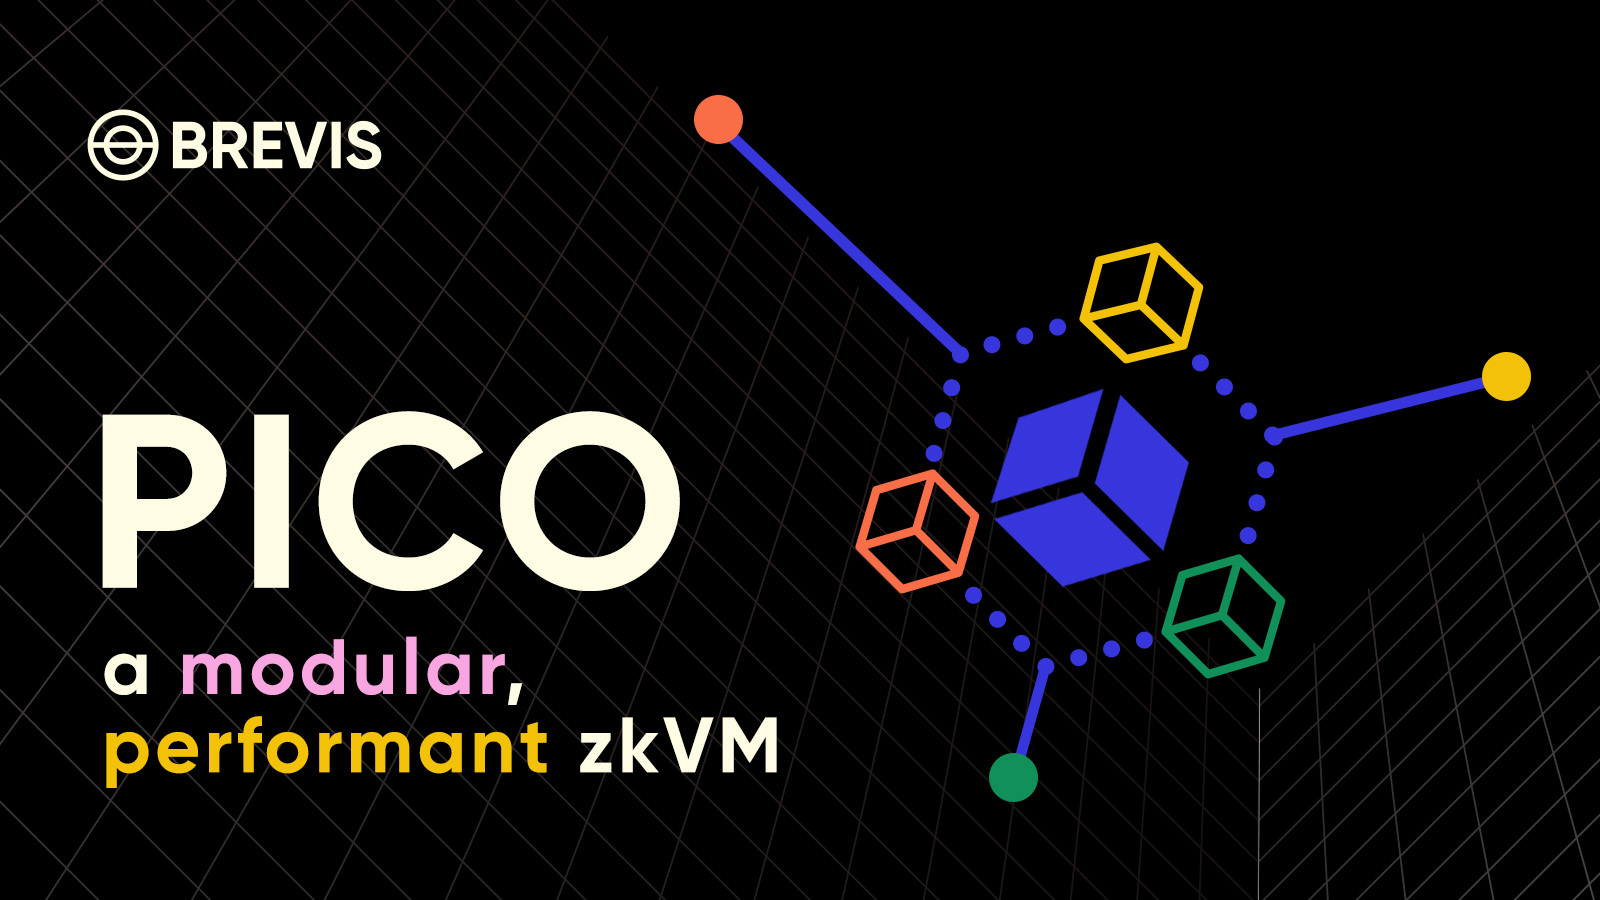
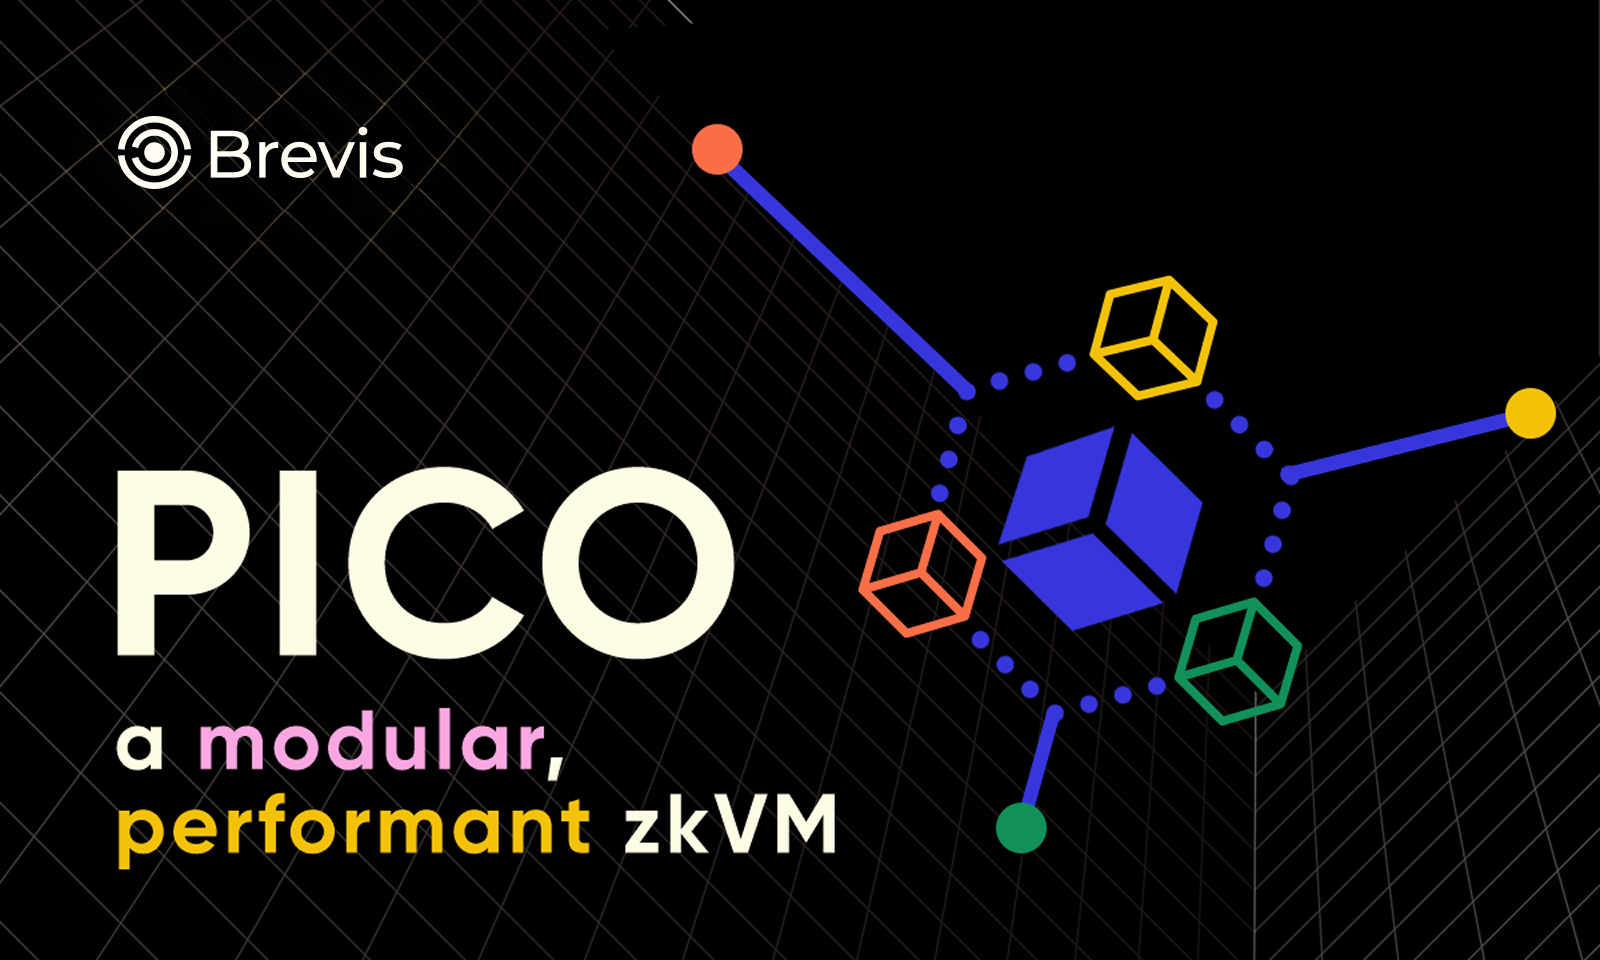
GITBOOK-40: No subject

diff --git a/README.md b/README.md
@@ -4,7 +4,7 @@ description: A modular, performant zkVM
 
 # Introducing Pico
 
-<figure><img src=".gitbook/assets/Frame - 1.png" alt=""><figcaption></figcaption></figure>
+<figure><img src=".gitbook/assets/pico.png" alt=""><figcaption></figcaption></figure>
 
 Welcome to Pico—the open-source zero-knowledge virtual machine (zkVM) that transforms how developers build secure, scalable, and high-performance decentralized applications. Drawing on the innovative ["glue-and-coprocessor"](https://vitalik.eth.limo/general/2024/09/02/gluecp.html) architecture, Pico fuses the efficiency of specialized circuits with the adaptability of a general-purpose zkVM. This unique design empowers you to craft tailored proof systems that meet the diverse needs of modern cryptographic applications.
 
@@ -24,4 +24,3 @@ Pico is built upon four fundamental strengths that set it apart:
 * **Performance:** Engineered for efficiency, Pico achieves industry-leading proof generation speeds on standard hardware. Its optimized workflows and specialized circuits deliver exceptional throughput and low latency, even in high-demand scenarios.
 
 Pico provides a robust, future-ready foundation that meets today’s challenges and evolves with the advancing field of zero-knowledge technology. Whether you’re a developer eager to explore the potential of ZK proofs or a researcher pushing the boundaries of cryptographic innovation, Pico is the ideal platform to build upon.
-
